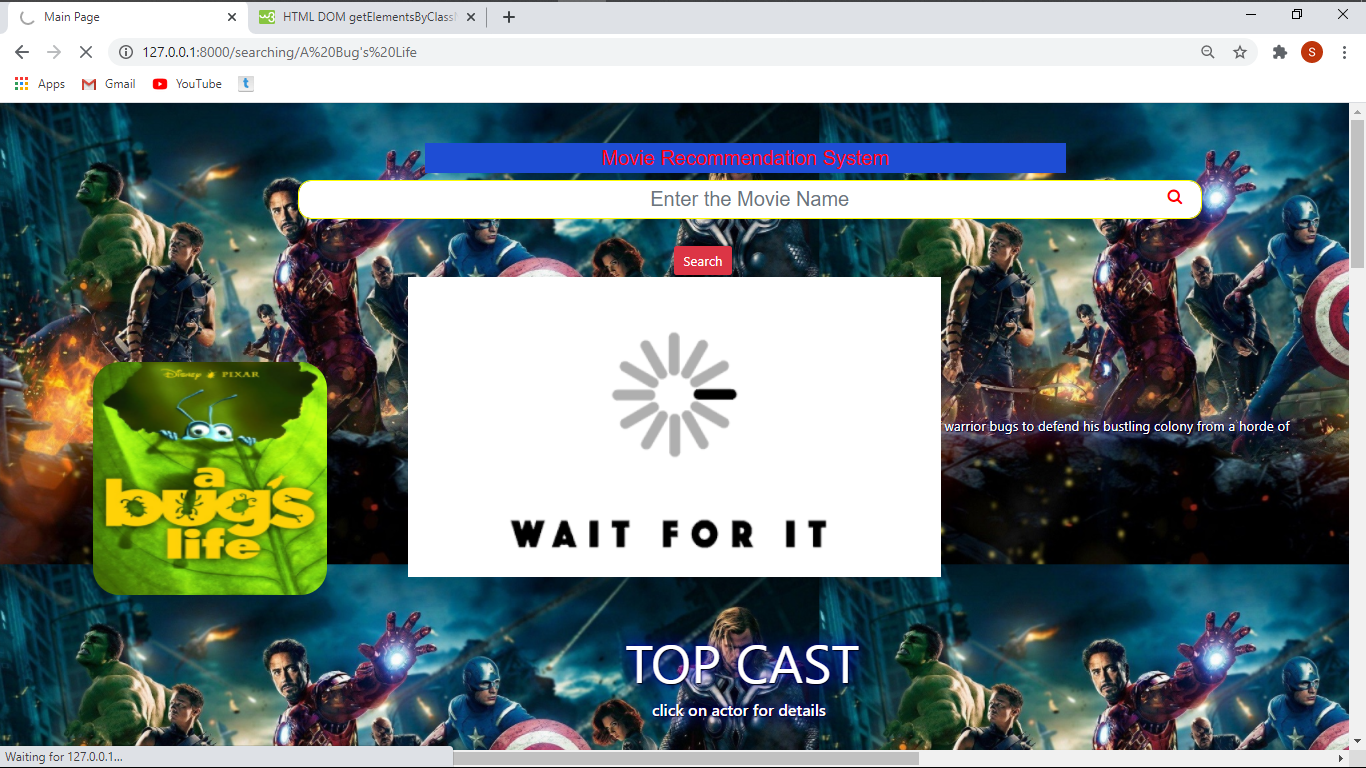
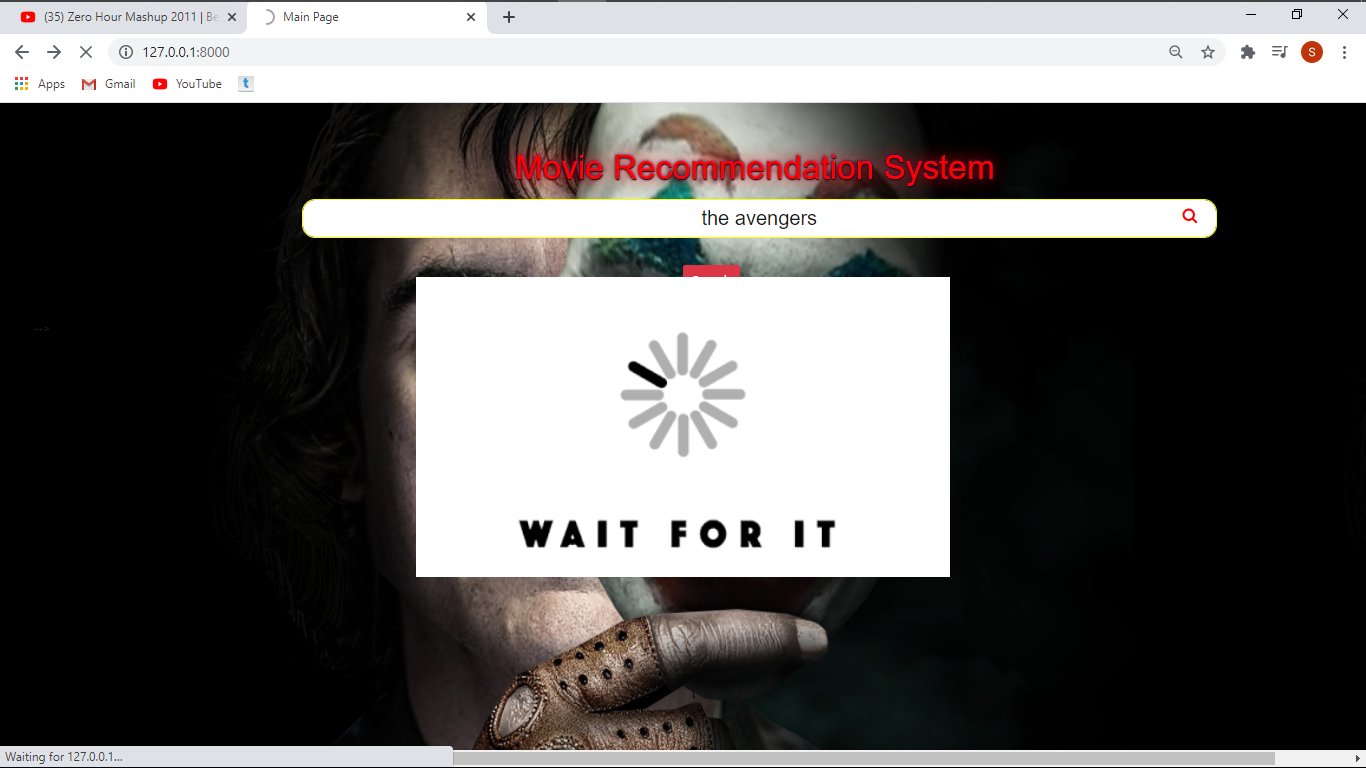
done with new wallpaper

diff --git a/templates/mainPage/index.html b/templates/mainPage/index.html
@@ -22,8 +22,8 @@
     </head>
     <style media="screen">
         body{
-            background-image: url("{% static 'mainPage/images/images.jpg' %}");
-            background-color: yellow;
+            background-image: url("{% static 'mainPage\\images\\joker.jpg'  %}");
+            background-size: 1700px 1070px;
             opacity: 1;
         }
         ul.ui-autocomplete {
@@ -39,8 +39,11 @@
         width :95%;
         margin : 20px auto;
         display: grid;
-        grid-template-columns: repeat(3,1fr) 100px;
+        /* grid-template-columns: repeat(3,1fr) 100px; */
         grid-gap: 20px;
+        /* background-image: url("{% static 'mainPage\\images\\joker.jpg'  %}");
+        background-size: 1700px 1070px;
+        opacity: 1; */
 
     }
     .div1{
@@ -145,7 +148,7 @@
 
             </div>
             <div class="div1">
-                <div class="text text-center" style="font-family:sans-serif;position:relative;left:30%;top:10px;margin:10px;color:red;background-color:#1e4dd4;font-size:30px;width:50%;">
+                <div class="text text-center" style="font-family:sans-serif;position:relative;left:30%;top:10px;margin:10px;color:red;text-shadow: 1px 1px 2px black, 0 0 25px red, 0 0 5px darkblue;font-size:50px;width:50%;">
                     <span>Movie Recommendation System</span>
                 </div>
                 <div class="" style="margin:20px;">
@@ -187,15 +190,13 @@
             </div>
             <div class="div3 text text-left p-4 " style="color: white; font-size: 20px; position: absolute; left: 30%; top: 40%;">
                 {% for movie in mainMovieList %}
-                    <h7 style="text-shadow: 1px 1px 2px black, 0 0 25px red, 0 0 5px darkblue;">Title: {{movie.originalTitle}}</h7><br>
-                    <h7 style="text-shadow: 1px 1px 2px black, 0 0 25px red, 0 0 5px darkblue;">
-                        OverView<br><h7 style="text-shadow: 1px 1px 2px black, 0 0 25px blue, 0 0 5px darkblue;" style="color: white;">{{movie.overView}}</h7 style="text-shadow: 1px 1px 2px black, 0 0 25px blue, 0 0 5px darkblue;">
-                    </h7 style="text-shadow: 1px 1px 2px black, 0 0 25px blue, 0 0 5px darkblue;"><br>
-                    <h7 style="text-shadow: 1px 1px 2px black, 0 0 25px red, 0 0 5px darkblue;">voteAverage: {{movie.voteAverage}}</h7 style="text-shadow: 1px 1px 2px black, 0 0 25px blue, 0 0 5px darkblue;"><br>
-                    <h7 style="text-shadow: 1px 1px 2px black, 0 0 25px red, 0 0 5px darkblue;">voteCount: {{movie.voteCount}}</h7 style="text-shadow: 1px 1px 2px black, 0 0 25px blue, 0 0 5px darkblue;"><br>
-                    <h7 style="text-shadow: 1px 1px 2px black, 0 0 25px red, 0 0 5px darkblue;">Adult:{{movie.adult}}</h7 style="text-shadow: 1px 1px 2px black, 0 0 25px blue, 0 0 5px darkblue;"><br>
-                    <h7 style="text-shadow: 1px 1px 2px black, 0 0 25px red, 0 0 5px darkblue;">Release Date:{{movie.releaseDate}}</h7 style="text-shadow: 1px 1px 2px black, 0 0 25px blue, 0 0 5px darkblue;"><br>
-                    <h7 style="text-shadow: 1px 1px 2px black, 0 0 25px red, 0 0 5px darkblue;">Language:{{movie.Language}}</h7 style="text-shadow: 1px 1px 2px black, 0 0 25px blue, 0 0 5px darkblue;"><br>
+                    <h7 style="text-shadow: 1px 1px 2px black, 0 0 25px red, 0 0 5px darkblue; font-size:30px;">Title:</h7> <h7 style="text-shadow: 1px 1px 2px black, 0 0 25px blue, 0 0 5px darkblue;color: white; font-size:20px;"> {{movie.originalTitle}}</h7><br>
+                    <h7 style="text-shadow: 1px 1px 2px black, 0 0 25px red, 0 0 5px darkblue;font-size:30px;">OverView<br></h7><h7 style="text-shadow: 1px 1px 2px black, 0 0 25px blue, 0 0 5px darkblue;color: white;">{{movie.overView}}</h7><br>
+                    <h7 style="text-shadow: 1px 1px 2px black, 0 0 25px red, 0 0 5px darkblue;font-size:30px;">voteAverage:</h7 style="text-shadow: 1px 1px 2px black, 0 0 25px blue, 0 0 5px darkblue;"> <h7 style="text-shadow: 1px 1px 2px black, 0 0 25px blue, 0 0 5px darkblue;color: white;font-size:20px;">{{movie.voteAverage}}</h7><br>
+                    <h7 style="text-shadow: 1px 1px 2px black, 0 0 25px red, 0 0 5px darkblue;font-size:30px;">voteCount:</h7 style="text-shadow: 1px 1px 2px black, 0 0 25px blue, 0 0 5px darkblue;"><h7 style="text-shadow: 1px 1px 2px black, 0 0 25px blue, 0 0 5px darkblue;color: white;font-size:20px;"> {{movie.voteCount}}</h7><br>
+                    <h7 style="text-shadow: 1px 1px 2px black, 0 0 25px red, 0 0 5px darkblue;font-size:30px;">Adult:</h7 style="text-shadow: 1px 1px 2px black, 0 0 25px blue, 0 0 5px darkblue;"><h7 style="text-shadow: 1px 1px 2px black, 0 0 25px blue, 0 0 5px darkblue;color: white;font-size:20px;">{{movie.adult}}</h7><br>
+                    <h7 style="text-shadow: 1px 1px 2px black, 0 0 25px red, 0 0 5px darkblue;font-size:30px;">Release Date:</h7 style="text-shadow: 1px 1px 2px black, 0 0 25px blue, 0 0 5px darkblue;"><h7 style="text-shadow: 1px 1px 2px black, 0 0 25px blue, 0 0 5px darkblue;color: white;font-size:20px;">{{movie.releaseDate}}</h7><br>
+                    <h7 style="text-shadow: 1px 1px 2px black, 0 0 25px red, 0 0 5px darkblue;font-size:30px;">Language:</h7 style="text-shadow: 1px 1px 2px black, 0 0 25px blue, 0 0 5px darkblue;"><h7 style="text-shadow: 1px 1px 2px black, 0 0 25px blue, 0 0 5px darkblue;color: white;font-size:20px;">{{movie.Language}}</h7><br>
                 {% endfor %}
             </div>
 
@@ -274,7 +275,7 @@
                                 <a  href="/searching/{{movie.originalTitle}}" id="{{movie.id}}" >
                                 <div class="card-front1" style="background-color: white; border-radius:20px;">
                                     <img src={{movie.moviePoster}}  height="500px" width="300px" style="border-radius: 80px">
-                                    <h4 style="text-shadow: 1px 1px 2px black, 0 0 25px white, 0 0 5px darkblue;">{{movie.originalTitle}}</h4>
+                                    <h4 style="position: relative; left:40px;text-shadow: 1px 1px 2px black, 0 0 25px white, 0 0 5px darkblue;">{{movie.originalTitle}}</h4>
                                 </div>
                             </a>
                             </div>

diff --git a/MainPage/views.py b/MainPage/views.py
@@ -123,13 +123,19 @@ def getDetails(movieList):
         movie_id = result[0].id
         response = requests.get('https://api.themoviedb.org/3/movie/{}?api_key={}'.format(movie_id,tmdb.api_key))
         data_json = response.json()
-        moviePoster="https://image.tmdb.org/t/p/w500"+data_json['poster_path']
+        if data_json['poster_path']!=None:
+            moviePoster="https://image.tmdb.org/t/p/w500"+data_json['poster_path']
+        else:
+            moviePoster=''
         adult=data_json['adult']
         budget=data_json['budget']
         originalTitle=data_json['original_title']
         overView=data_json['overview']
         releaseDate=data_json['release_date']
-        Language=data_json['spoken_languages'][0]['name']
+        try:
+            Language=data_json['spoken_languages'][0]['name']
+        except:
+            Language='Not found'
         voteAverage=data_json['vote_average']
         voteCount=data_json['vote_count']
         response = requests.get('https://api.themoviedb.org/3/movie/{}/credits?api_key={}'.format(movie_id,tmdb.api_key))
@@ -159,13 +165,19 @@ def getDetailsOfMainMovie(movie):
     movie_id = result[0].id
     response = requests.get('https://api.themoviedb.org/3/movie/{}?api_key={}'.format(movie_id,tmdb.api_key))
     data_json = response.json()
-    moviePoster="https://image.tmdb.org/t/p/w500"+data_json['poster_path']
+    if data_json['poster_path']!=None:
+        moviePoster="https://image.tmdb.org/t/p/w500"+data_json['poster_path']
+    else:
+        moviePoster=''
     adult=data_json['adult']
     budget=data_json['budget']
     originalTitle=data_json['original_title']
     overView=data_json['overview']
     releaseDate=data_json['release_date']
-    Language=data_json['spoken_languages'][0]['name']
+    try:
+        Language=data_json['spoken_languages'][0]['name']
+    except:
+        Language='Not found'
     voteAverage=data_json['vote_average']
     voteCount=data_json['vote_count']
     response = requests.get('https://api.themoviedb.org/3/movie/{}/credits?api_key={}'.format(movie_id,tmdb.api_key))
@@ -235,6 +247,23 @@ def getDetailsOfMainMovie(movie):
             actor8ProfilePhoto="https://image.tmdb.org/t/p/w500"+data_json['cast'][7]['profile_path']
         actor8Character=data_json['cast'][7]['character']
 
+        actor9Id=data_json['cast'][8]['id']
+        actor9Name=data_json['cast'][8]['name']
+        if(data_json['cast'][8]['profile_path']==None):
+            actor9ProfilePhoto="templates\\mainPage\\images\\blank_man.jpg"
+        else:
+            actor9ProfilePhoto="https://image.tmdb.org/t/p/w500"+data_json['cast'][8]['profile_path']
+        actor9Character=data_json['cast'][8]['character']
+
+        actor10Id=data_json['cast'][9]['id']
+        actor10Name=data_json['cast'][9]['name']
+        if(data_json['cast'][9]['profile_path']==None):
+            actor10ProfilePhoto="templates\\mainPage\\images\\blank_man.jpg"
+        else:
+            actor10ProfilePhoto="https://image.tmdb.org/t/p/w500"+data_json['cast'][9]['profile_path']
+        actor10Character=data_json['cast'][9]['character']
+
+
         response = requests.get('https://api.themoviedb.org/3/person/{}?api_key={}&language=en-US'.format(str(actor1Id),tmdb.api_key))
         data_json=response.json()
         actor1Birthday=data_json['birthday']
@@ -289,6 +318,20 @@ def getDetailsOfMainMovie(movie):
         actor8Department=data_json['known_for_department']
         actor8Biography=data_json['biography']
 
+
+        response = requests.get('https://api.themoviedb.org/3/person/{}?api_key={}&language=en-US'.format(str(actor9Id),tmdb.api_key))
+        data_json=response.json()
+        actor9Birthday=data_json['birthday']
+        actor9Department=data_json['known_for_department']
+        actor9Biography=data_json['biography']
+
+
+        response = requests.get('https://api.themoviedb.org/3/person/{}?api_key={}&language=en-US'.format(str(actor10Id),tmdb.api_key))
+        data_json=response.json()
+        actor10Birthday=data_json['birthday']
+        actor10Department=data_json['known_for_department']
+        actor10Biography=data_json['biography']
+
         a1=Actors(actor1Id,actor1Name,actor1ProfilePhoto,actor1Character,actor1Birthday,actor1Biography,actor1Department)
         a2=Actors(actor2Id,actor2Name,actor2ProfilePhoto,actor2Character,actor2Birthday,actor2Biography,actor2Department)
         a3=Actors(actor3Id,actor3Name,actor3ProfilePhoto,actor3Character,actor3Birthday,actor3Biography,actor3Department)
@@ -297,6 +340,8 @@ def getDetailsOfMainMovie(movie):
         a6=Actors(actor6Id,actor6Name,actor6ProfilePhoto,actor6Character,actor6Birthday,actor6Biography,actor6Department)
         a7=Actors(actor7Id,actor7Name,actor7ProfilePhoto,actor7Character,actor7Birthday,actor7Biography,actor7Department)
         a8=Actors(actor8Id,actor8Name,actor8ProfilePhoto,actor8Character,actor8Birthday,actor8Biography,actor8Department)
+        a9=Actors(actor9Id,actor9Name,actor9ProfilePhoto,actor9Character,actor9Birthday,actor9Biography,actor9Department)
+        a10=Actors(actor10Id,actor10Name,actor10ProfilePhoto,actor10Character,actor10Birthday,actor10Biography,actor10Department)
 
         actorList=list()
         actorList.append(a1)
@@ -307,6 +352,8 @@ def getDetailsOfMainMovie(movie):
         actorList.append(a6)
         actorList.append(a7)
         actorList.append(a8)
+        actorList.append(a9)
+        actorList.append(a10)
 
         x=MOVIE(0,moviePoster,adult,budget,originalTitle,overView,releaseDate,Language,voteAverage,voteCount,actorList)
         movieDetailList.append(x)
